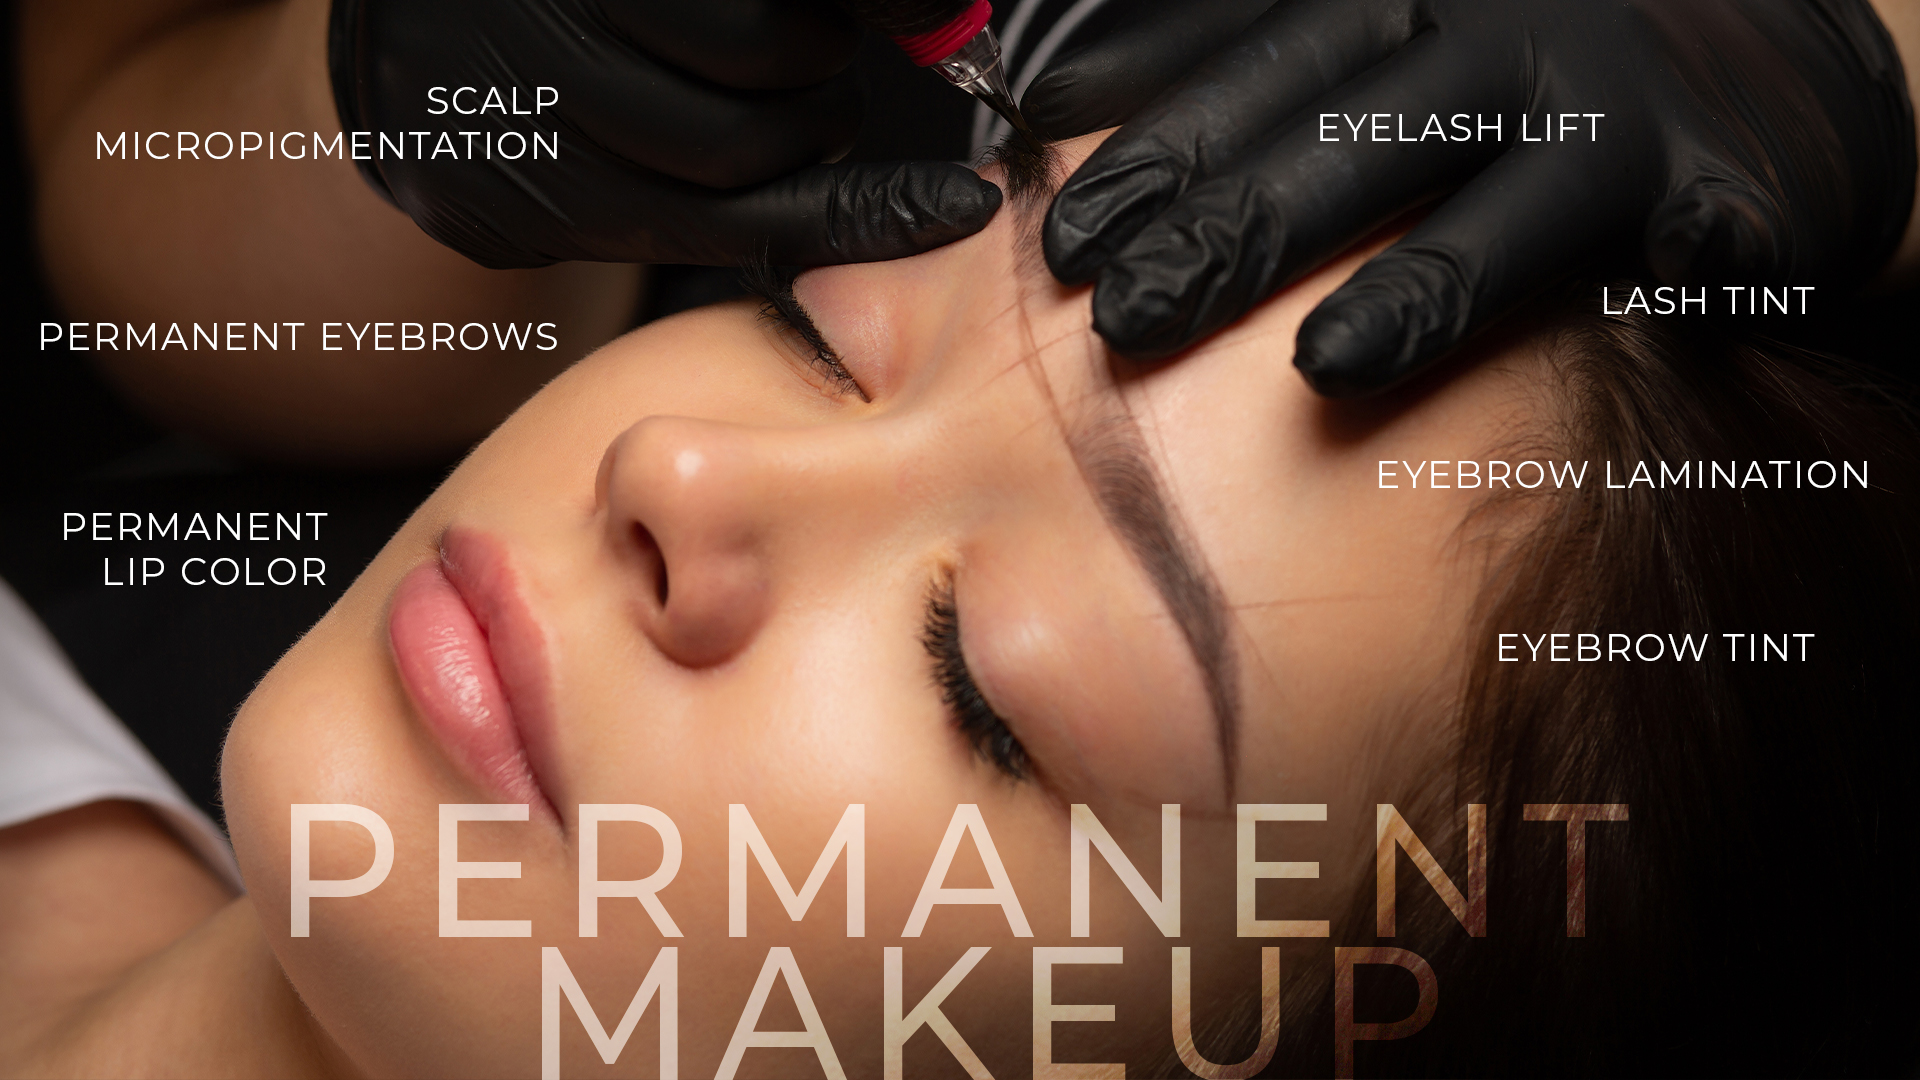
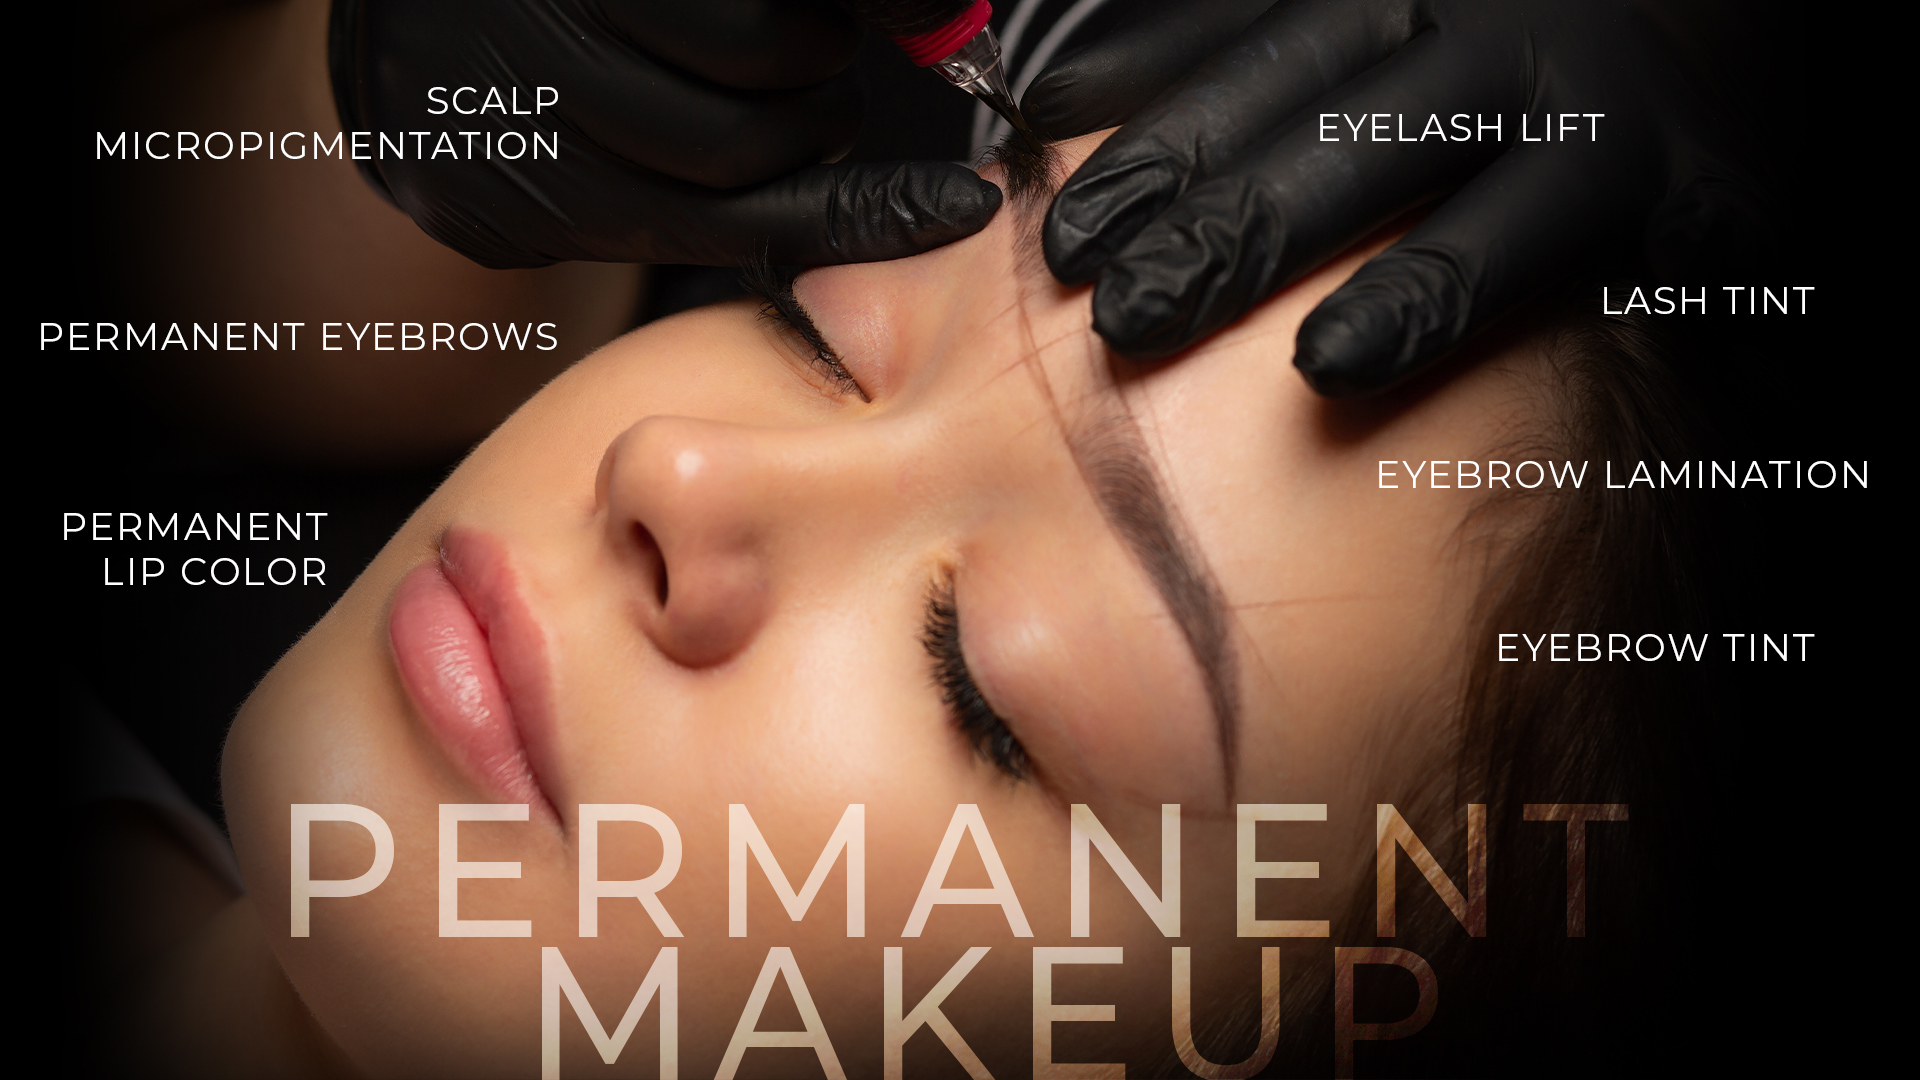
vvvvv

diff --git a/src/components/LeadForm.tsx b/src/components/LeadForm.tsx
@@ -180,7 +180,7 @@ const LeadForm = ({
             className="w-full py-3 text-lg font-semibold rounded-lg text-white hover:opacity-90 transition relative overflow-hidden bg-black"
           >
             <span className="relative z-10">
-              {isSubmitting ? "Submitting..." : "🖤 Book My Slot"}
+              {isSubmitting ? "Submitting..." : "🖤 Book Now"}
             </span>
             <div className="absolute inset-0 bg-white/20 blur-md opacity-30 animate-pulse"></div>
           </Button>

diff --git a/src/components/Hero.tsx b/src/components/Hero.tsx
@@ -43,11 +43,14 @@ const Hero = () => {
   />
 </div>
 
-
-        {/* Mobile Background */}
-        <div className="block md:hidden absolute inset-0 ">
-        <img src={heroBgMobile} alt="Hero Mobile" className="w-full h-full object-cover" />
-        </div>
+{/* Mobile Background */}
+<div className="block md:hidden absolute inset-0 bg-black">
+  <img
+    src={heroBgMobile}
+    alt="Hero Mobile"
+    className="w-full h-full object-contain object-center"
+  />
+</div>
 
 
         {/* Overlay */}

diff --git a/src/components/newplot.jsx b/src/components/newplot.jsx
@@ -22,7 +22,7 @@ const CompanySection = () => {
   onClick={() => scrollToSection('contact')}
   className="mt-5 w-full mx-auto bg-black text-white font-semibold tracking-wide py-4 text-lg rounded-md shadow-md hover:bg-[#FCBD01] hover:text-black transition-all duration-300"
 >
-  Book a Visit
+Book Now 
 </button>
 
 
